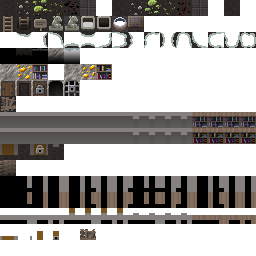
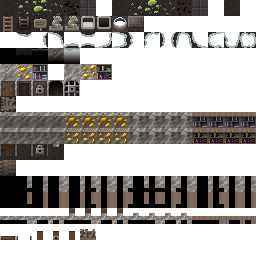
v0.5.0: updated display logic and texturing for sewers, caves, city.

diff --git a/core/src/main/java/com/shatteredpixel/shatteredpixeldungeon/levels/CityBossLevel.java b/core/src/main/java/com/shatteredpixel/shatteredpixeldungeon/levels/CityBossLevel.java
@@ -33,6 +33,7 @@ import com.shatteredpixel.shatteredpixeldungeon.items.keys.SkeletonKey;
 import com.shatteredpixel.shatteredpixeldungeon.levels.painters.Painter;
 import com.shatteredpixel.shatteredpixeldungeon.messages.Messages;
 import com.shatteredpixel.shatteredpixeldungeon.scenes.GameScene;
+import com.shatteredpixel.shatteredpixeldungeon.tiles.DungeonTileSheet;
 import com.watabou.noosa.Group;
 import com.watabou.noosa.tweeners.AlphaTweener;
 import com.watabou.utils.Bundle;
@@ -49,7 +50,7 @@ public class CityBossLevel extends Level {
 	private static final int TOP			= 2;
 	private static final int HALL_WIDTH		= 7;
 	private static final int HALL_HEIGHT	= 15;
-	private static final int CHAMBER_HEIGHT	= 3;
+	private static final int CHAMBER_HEIGHT	= 4;
 
 	private static final int WIDTH = 32;
 	
@@ -117,10 +118,12 @@ public class CityBossLevel extends Level {
 		map[arenaDoor] = Terrain.DOOR;
 		
 		Painter.fill( this, LEFT, TOP + HALL_HEIGHT + 1, HALL_WIDTH, CHAMBER_HEIGHT, Terrain.EMPTY );
+		Painter.fill( this, LEFT, TOP + HALL_HEIGHT + 1, HALL_WIDTH, 1, Terrain.BOOKSHELF);
+		map[arenaDoor + width()] = Terrain.EMPTY;
 		Painter.fill( this, LEFT, TOP + HALL_HEIGHT + 1, 1, CHAMBER_HEIGHT, Terrain.BOOKSHELF );
 		Painter.fill( this, LEFT + HALL_WIDTH - 1, TOP + HALL_HEIGHT + 1, 1, CHAMBER_HEIGHT, Terrain.BOOKSHELF );
 		
-		entrance = (TOP + HALL_HEIGHT + 2 + Random.Int( CHAMBER_HEIGHT - 1 )) * width() + LEFT + (/*1 +*/ Random.Int( HALL_WIDTH-2 ));
+		entrance = (TOP + HALL_HEIGHT + 3 + Random.Int( CHAMBER_HEIGHT - 2 )) * width() + LEFT + (/*1 +*/ Random.Int( HALL_WIDTH-2 ));
 		map[entrance] = Terrain.ENTRANCE;
 		
 		return true;
@@ -128,16 +131,18 @@ public class CityBossLevel extends Level {
 	
 	@Override
 	protected void decorate() {
-		
-		for (int i=0; i < length(); i++) {
+
+		for (int i=0; i < length() - width(); i++) {
 			if (map[i] == Terrain.EMPTY && Random.Int( 10 ) == 0) {
 				map[i] = Terrain.EMPTY_DECO;
-			} else if (map[i] == Terrain.WALL && Random.Int( 8 ) == 0) {
+			} else if (map[i] == Terrain.WALL
+					&& DungeonTileSheet.floorTile(map[i + width()])
+					&& Random.Int( 21 - Dungeon.depth ) == 0) {
 				map[i] = Terrain.WALL_DECO;
 			}
 		}
 		
-		int sign = arenaDoor + width() + 1;
+		int sign = arenaDoor + 2*width() + 1;
 		map[sign] = Terrain.SIGN;
 	}
 	

diff --git a/core/src/main/java/com/shatteredpixel/shatteredpixeldungeon/levels/CityLevel.java b/core/src/main/java/com/shatteredpixel/shatteredpixeldungeon/levels/CityLevel.java
@@ -22,6 +22,7 @@ package com.shatteredpixel.shatteredpixeldungeon.levels;
 
 import com.shatteredpixel.shatteredpixeldungeon.Assets;
 import com.shatteredpixel.shatteredpixeldungeon.Dungeon;
+import com.shatteredpixel.shatteredpixeldungeon.tiles.DungeonTileSheet;
 import com.shatteredpixel.shatteredpixeldungeon.tiles.DungeonTilemap;
 import com.shatteredpixel.shatteredpixeldungeon.actors.mobs.npcs.Imp;
 import com.shatteredpixel.shatteredpixeldungeon.levels.Room.Type;
@@ -107,10 +108,12 @@ public class CityLevel extends RegularLevel {
 	@Override
 	protected void decorate() {
 		
-		for (int i=0; i < length(); i++) {
+		for (int i=0; i < length() - width(); i++) {
 			if (map[i] == Terrain.EMPTY && Random.Int( 10 ) == 0) {
 				map[i] = Terrain.EMPTY_DECO;
-			} else if (map[i] == Terrain.WALL && Random.Int( 8 ) == 0) {
+			} else if (map[i] == Terrain.WALL
+					&& DungeonTileSheet.floorTile(map[i + width()])
+					&& Random.Int( 21 - Dungeon.depth ) == 0) {
 				map[i] = Terrain.WALL_DECO;
 			}
 		}
@@ -193,7 +196,7 @@ public class CityLevel extends RegularLevel {
 			this.pos = pos;
 			
 			PointF p = DungeonTilemap.tileCenterToWorld( pos );
-			pos( p.x - 4, p.y - 2, 4, 0 );
+			pos( p.x - 6, p.y - 4, 12, 12 );
 			
 			pour( factory, 0.2f );
 		}
@@ -212,7 +215,7 @@ public class CityLevel extends RegularLevel {
 			super();
 			
 			color( 0x000000 );
-			speed.set( Random.Float( 8 ), -Random.Float( 8 ) );
+			speed.set( Random.Float( -2, 4 ), -Random.Float( 3, 6 ) );
 		}
 		
 		public void reset( float x, float y ) {
@@ -229,7 +232,7 @@ public class CityLevel extends RegularLevel {
 			super.update();
 			float p = left / lifespan;
 			am = p > 0.8f ? 1 - p : p * 0.25f;
-			size( 8 - p * 4 );
+			size( 6 - p * 3 );
 		}
 	}
 }

diff --git a/core/src/main/java/com/shatteredpixel/shatteredpixeldungeon/levels/CavesLevel.java b/core/src/main/java/com/shatteredpixel/shatteredpixeldungeon/levels/CavesLevel.java
@@ -22,6 +22,7 @@ package com.shatteredpixel.shatteredpixeldungeon.levels;
 
 import com.shatteredpixel.shatteredpixeldungeon.Assets;
 import com.shatteredpixel.shatteredpixeldungeon.Dungeon;
+import com.shatteredpixel.shatteredpixeldungeon.tiles.DungeonTileSheet;
 import com.shatteredpixel.shatteredpixeldungeon.tiles.DungeonTilemap;
 import com.shatteredpixel.shatteredpixeldungeon.actors.mobs.npcs.Blacksmith;
 import com.shatteredpixel.shatteredpixeldungeon.levels.Room.Type;
@@ -180,8 +181,10 @@ public class CavesLevel extends RegularLevel {
 			}
 		}
 		
-		for (int i=0; i < length(); i++) {
-			if (map[i] == Terrain.WALL && Random.Int( 12 ) == 0) {
+		for (int i=0; i < length() - width(); i++) {
+			if (map[i] == Terrain.WALL &&
+					DungeonTileSheet.floorTile(map[i + width()])
+					&& Random.Int( 4 ) == 0) {
 				map[i] = Terrain.WALL_DECO;
 			}
 		}

diff --git a/core/src/main/java/com/shatteredpixel/shatteredpixeldungeon/levels/CavesBossLevel.java b/core/src/main/java/com/shatteredpixel/shatteredpixeldungeon/levels/CavesBossLevel.java
@@ -37,6 +37,7 @@ import com.shatteredpixel.shatteredpixeldungeon.levels.traps.ToxicTrap;
 import com.shatteredpixel.shatteredpixeldungeon.levels.traps.Trap;
 import com.shatteredpixel.shatteredpixeldungeon.messages.Messages;
 import com.shatteredpixel.shatteredpixeldungeon.scenes.GameScene;
+import com.shatteredpixel.shatteredpixeldungeon.tiles.DungeonTileSheet;
 import com.watabou.noosa.Camera;
 import com.watabou.noosa.Group;
 import com.watabou.noosa.audio.Sample;
@@ -184,9 +185,11 @@ public class CavesBossLevel extends Level {
 				}
 			}
 		}
-		
-		for (int i=0; i < length(); i++) {
-			if (map[i] == Terrain.WALL && Random.Int( 8 ) == 0) {
+
+		for (int i=0; i < length() - width(); i++) {
+			if (map[i] == Terrain.WALL
+					&& DungeonTileSheet.floorTile(map[i + width()])
+					&& Random.Int( 3 ) == 0) {
 				map[i] = Terrain.WALL_DECO;
 			}
 		}

diff --git a/core/src/main/java/com/shatteredpixel/shatteredpixeldungeon/tiles/DungeonTileSheet.java b/core/src/main/java/com/shatteredpixel/shatteredpixeldungeon/tiles/DungeonTileSheet.java
@@ -103,6 +103,10 @@ public class DungeonTileSheet {
 	}
 
 
+	public static boolean floorTile(int tile){
+		return tile < CHASM;
+	}
+
 
 	/**********************************************************************
 	 * Chasm Tiles
